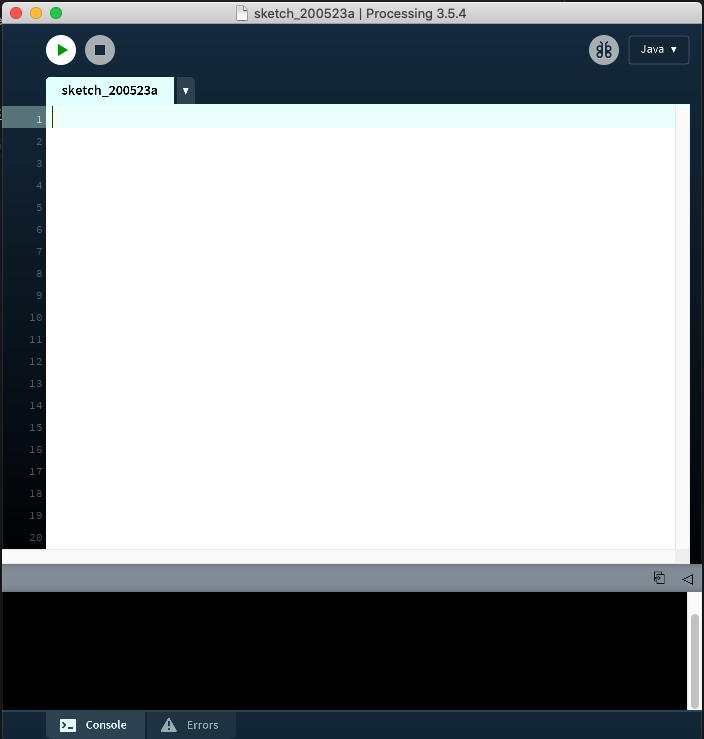
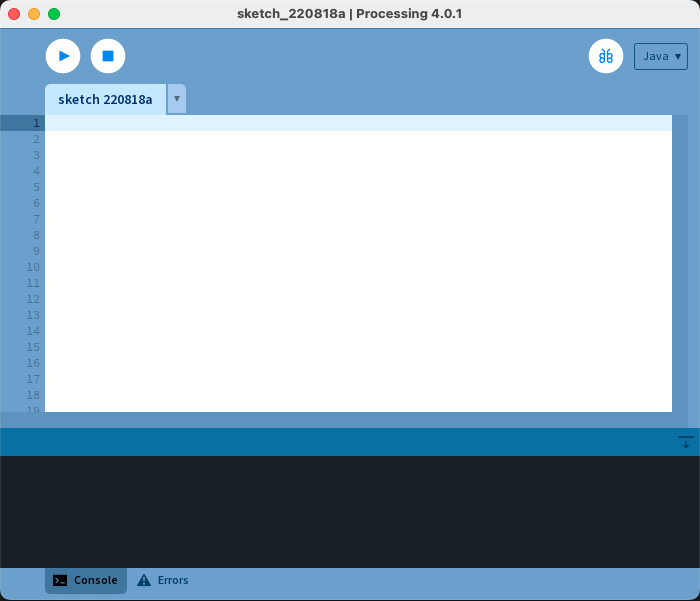
画像をProcessing 4のものに更新

diff --git a/01-setup/README.md b/01-setup/README.md
@@ -8,7 +8,7 @@
 
 <img src="../assets/images/start.png" alt="Start screen" width="320px">
 
-左上の "Run" ボタンを押してみましょう。もう一つ window が開いたら成功です。
+左上の "▷" ボタンを押して実行してみましょう。もう一つウィンドウが開いたら成功です。左上の "□" ボタンを押すと停止することができます。
 
 ## 標準ログ出力
 
